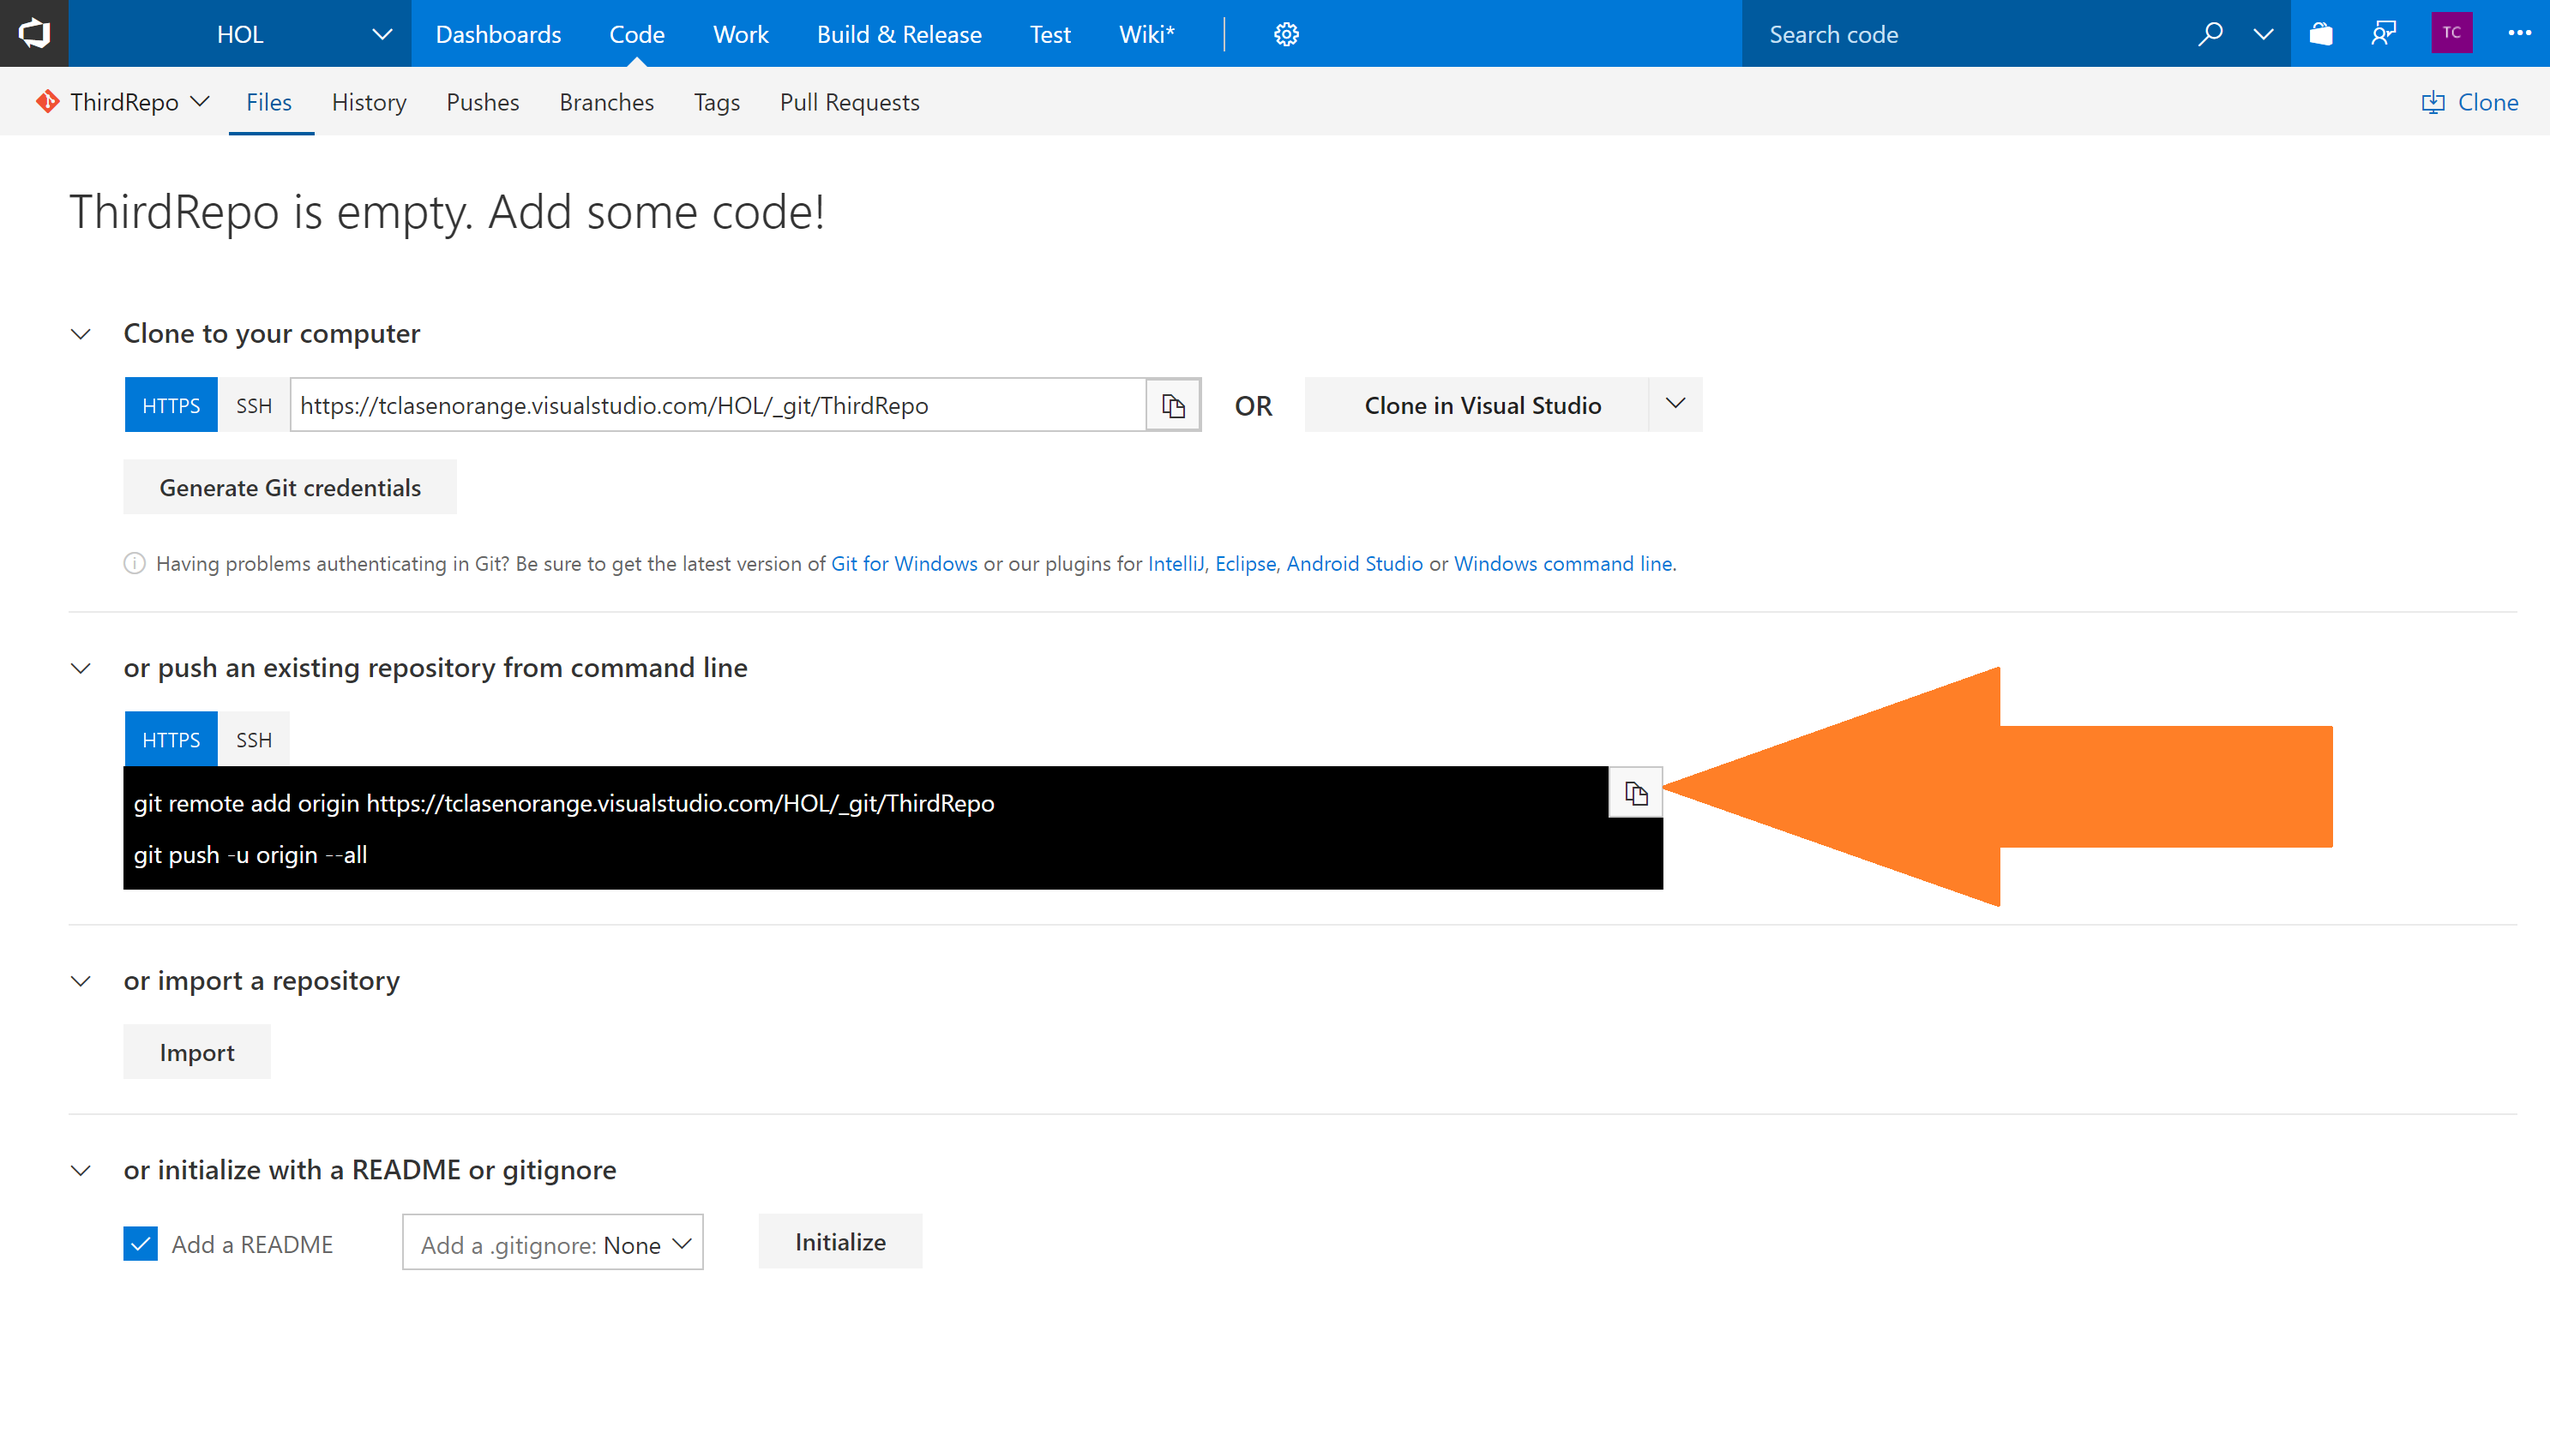
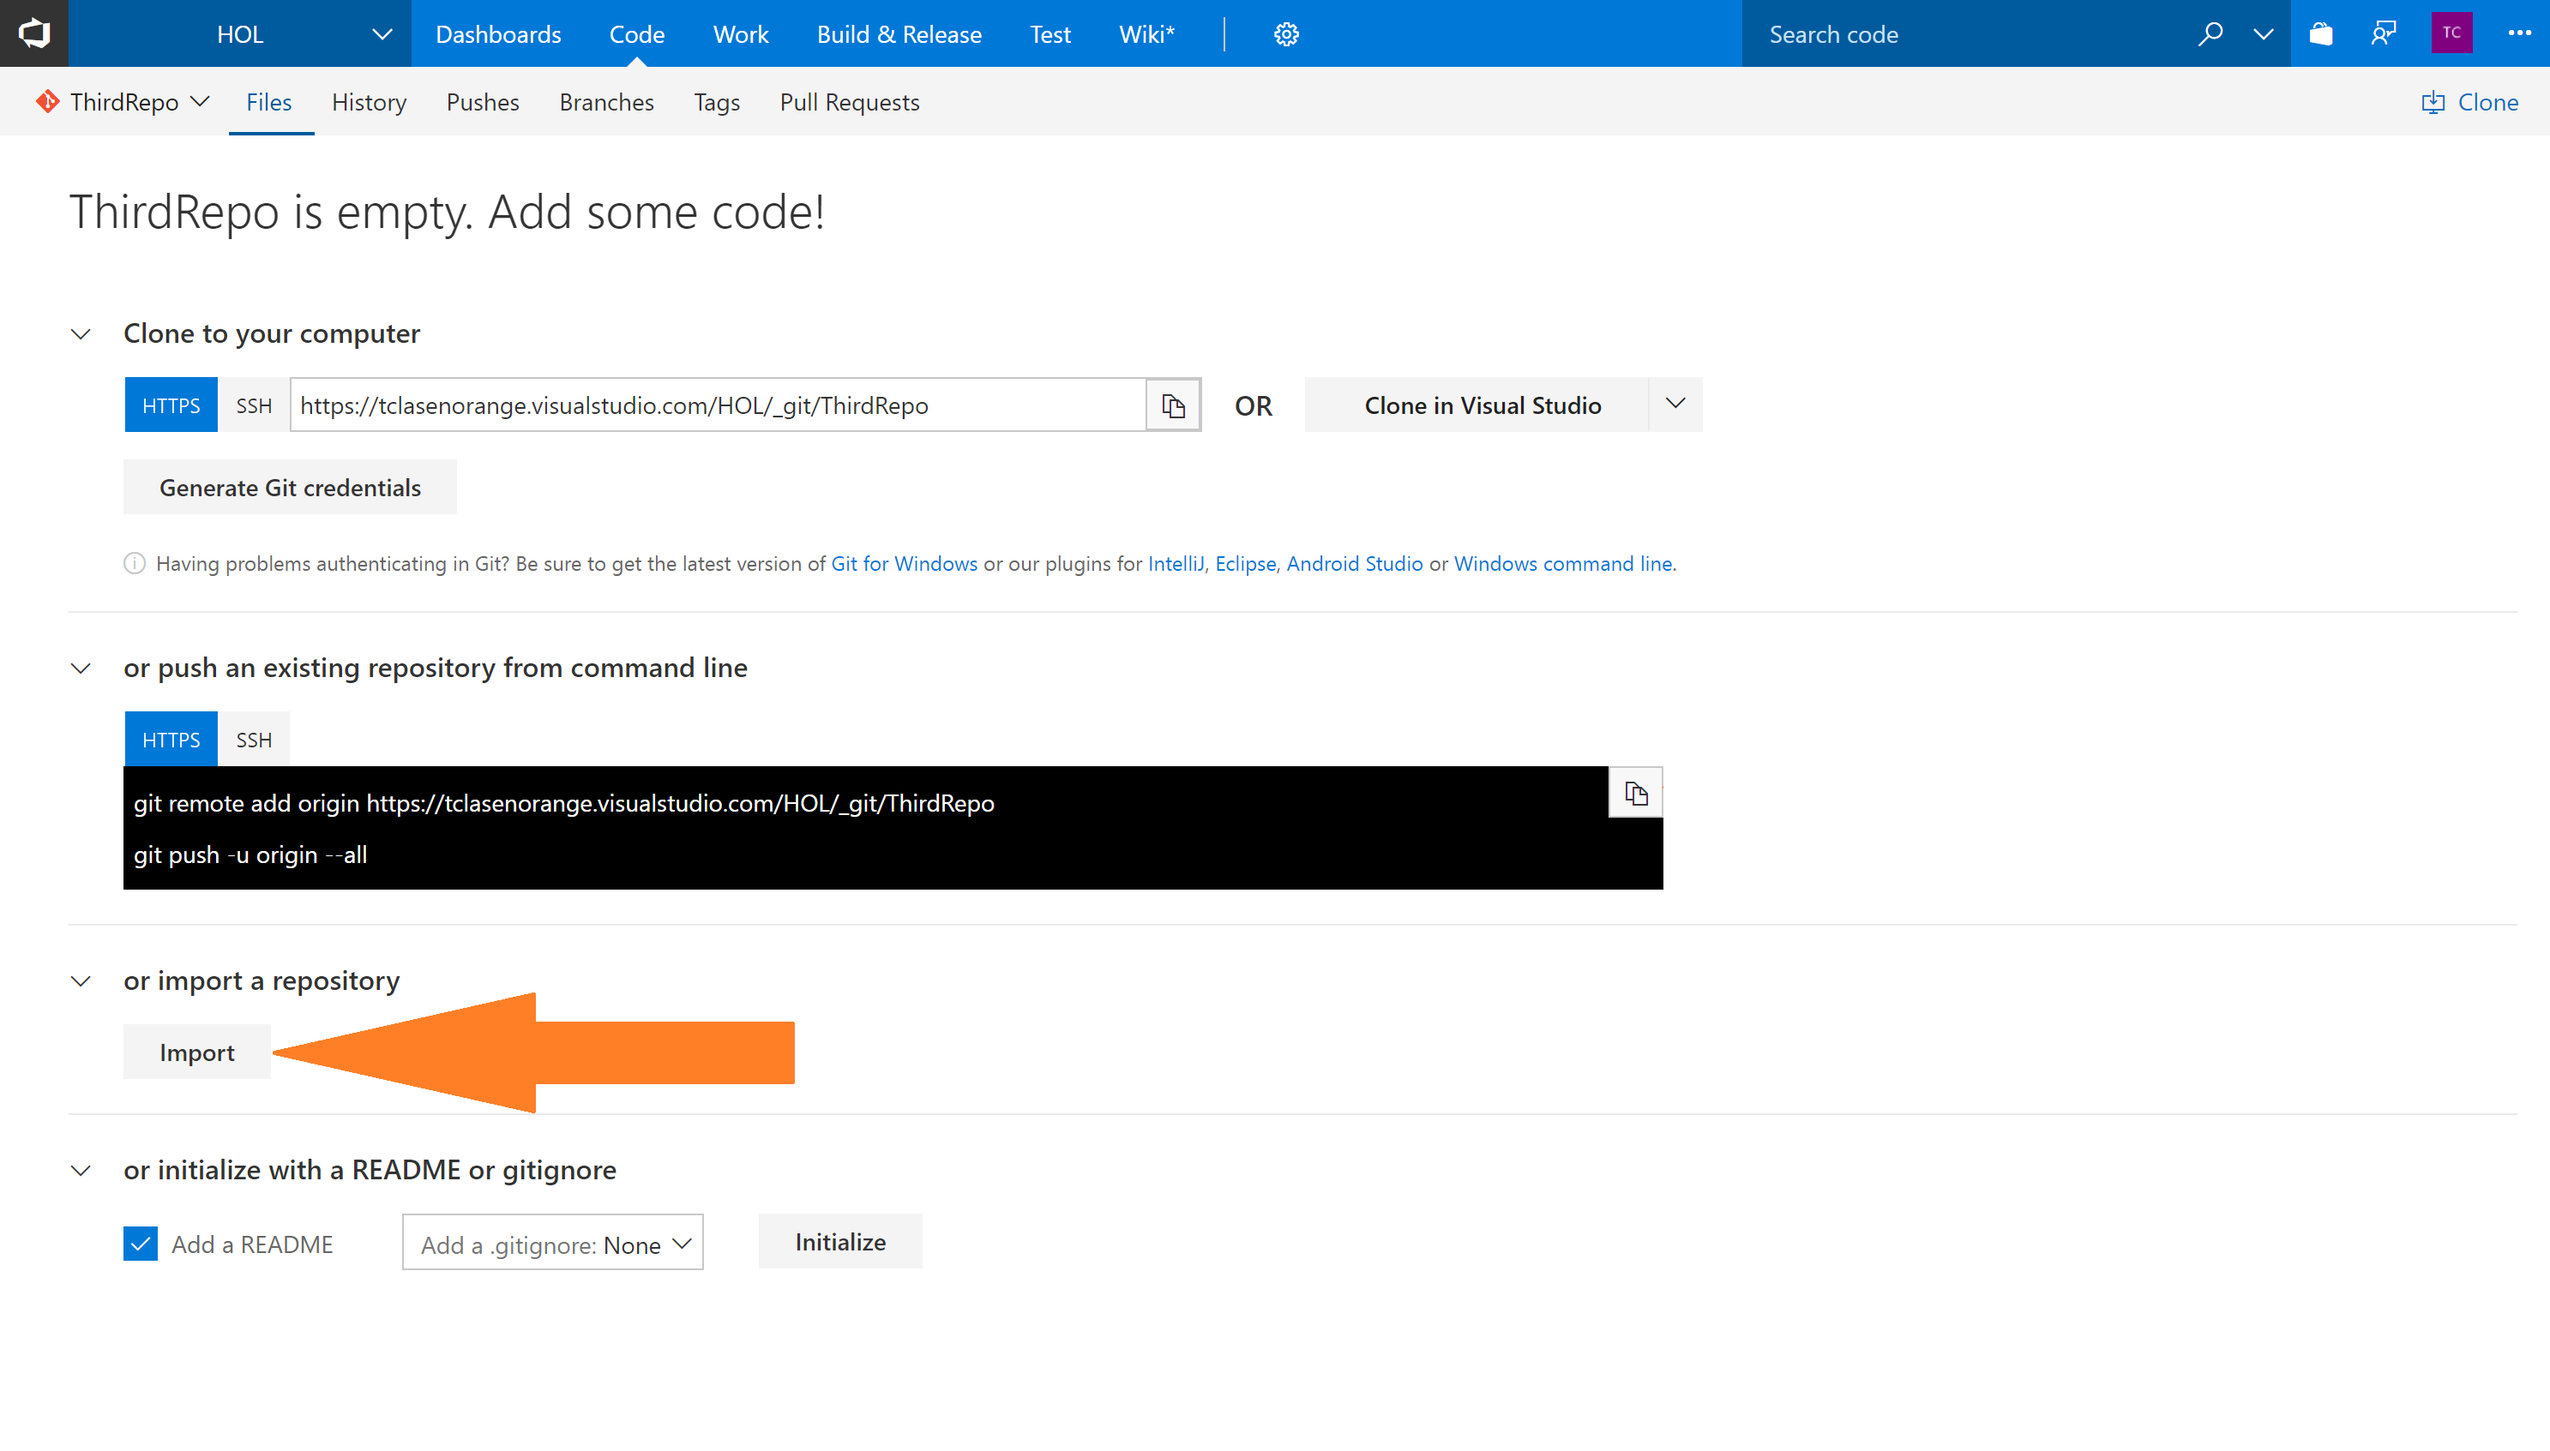
Using Import instead of cloning and importing manually.

Changed region(s): [[0.6496, 0.4607, 0.928, 0.6143], [0.0928, 0.6757, 0.3093, 0.7679]]

diff --git a/DevOpsHackChallenges.md b/DevOpsHackChallenges.md
@@ -31,6 +31,7 @@ If you need help check out the [Process Customization Hints](/ProcessCustomizati
 |3.| Create a new Work Item Type "Vision" above Scenario | 10 |
 |4.| Modify your team project to inherit from this template. | 10 |
 |5.| Customize your board to display items which are done in green + also display Epics |10|
+|5.1| Create a style rule to display Items which have not been moved for 7 days in red | 10 |
 |6.| Create work items with releationships, helping you manage the next challenges and keep track of your progress. Create them in a hierarchical manner. Starting at Feature / Epic level.  | 10 |
 |7.| Link work items, view history | 10 |
 |8.| Modify dashboard to show Reports & Stats (Come back to this after completing challenges 4, 5 and 6 to finish this Goal)  | 10 |
@@ -54,12 +55,11 @@ If you need help check out the [Version Control Hints](/VersionControl/VersionCo
 | # | Achievement   | Maximum score |
 |-|-|-|
 |1.| Create a new Git repository in your Team Project| 10 |
-|2.| Clone our sample repository found [here](https://github.com/DanielMeixner/DevOpsHackSample) to your machine | 10 |
-|3.| Push the code to your new repo in your Team Project  | 10 |
-|4.| Modify your repo to require a pull request to merge code into your master branch  | 10 |
-|5.|Modify your repo to require a Work Item linked to a pull request |10|
-|6.| Configure your repo to require at least one of your colleagues as approver  | 10 |
-|7.| Create a new Branch. Check it out and modify code locally changing the displayed Name of the Demo Website. Commit the change, then initiate and complete a pull request. Link a work item and follow the review process. | 10 |
+|2.| Import our sample repository found [here](https://github.com/DanielMeixner/DevOpsHackSample) to your VSTS Repository | 10 |
+|3.| Modify your repo to require a pull request to merge code into your master branch  | 10 |
+|4.|Modify your repo to require a Work Item linked to a pull request |10|
+|5.| Configure your repo to require at least one of your colleagues as approver  | 10 |
+|6.| Create a new Branch. Check it out and modify code locally changing the displayed Name of the Demo Website. Commit the change, then initiate and complete a pull request. Link a work item and follow the review process. | 10 |
 
 ## Bonus Goals ##
 | # | Bonus Goal   | Maximum score |

diff --git a/VersionControl/VersionControl.md b/VersionControl/VersionControl.md
@@ -5,19 +5,8 @@ This is on purpose: We want you to explore and play with the different options o
 ## Create a new Git repository in your Team Project ##
 ![Create a new Git repository in your Team Project](/VersionControl/images/VSTSProjectCode.PNG)
 
-## Clone our sample repository found [here](https://github.com/DanielMeixner/DevOpsHackSample) to your machine ##
-![Clone our sample repository found here to your machine](/VersionControl/images/GitCloneURL1.PNG)
-![Clone our sample repository found here to your machine](/VersionControl/images/GitCloneURL.PNG)
-## Push the code to your new repo in your Team Project ##
-![Push the code to your new repo in your Team Project](/VersionControl/images/VSTSEmptyRepo.PNG)
-
-Navigate to the folder containing your git repo 
-
-`git add remote origin YourVSTSRepoURL`
-
-`git push -u origin --all`
-
-----
+## Clone our sample repository found [here](https://github.com/DanielMeixner/DevOpsHackSample) to your new VSTS Repository ##
+![Clone our sample repository found here to your machine](/VersionControl/images/VSTSEmptyRepo.PNG)
 
 ## Modify your repo to require a pull request to merge code into your master branch ##
 ![Modify your repo to require a pull request to merge code into your master branch](/VersionControl/images/VSTSProjectBranch.PNG)
